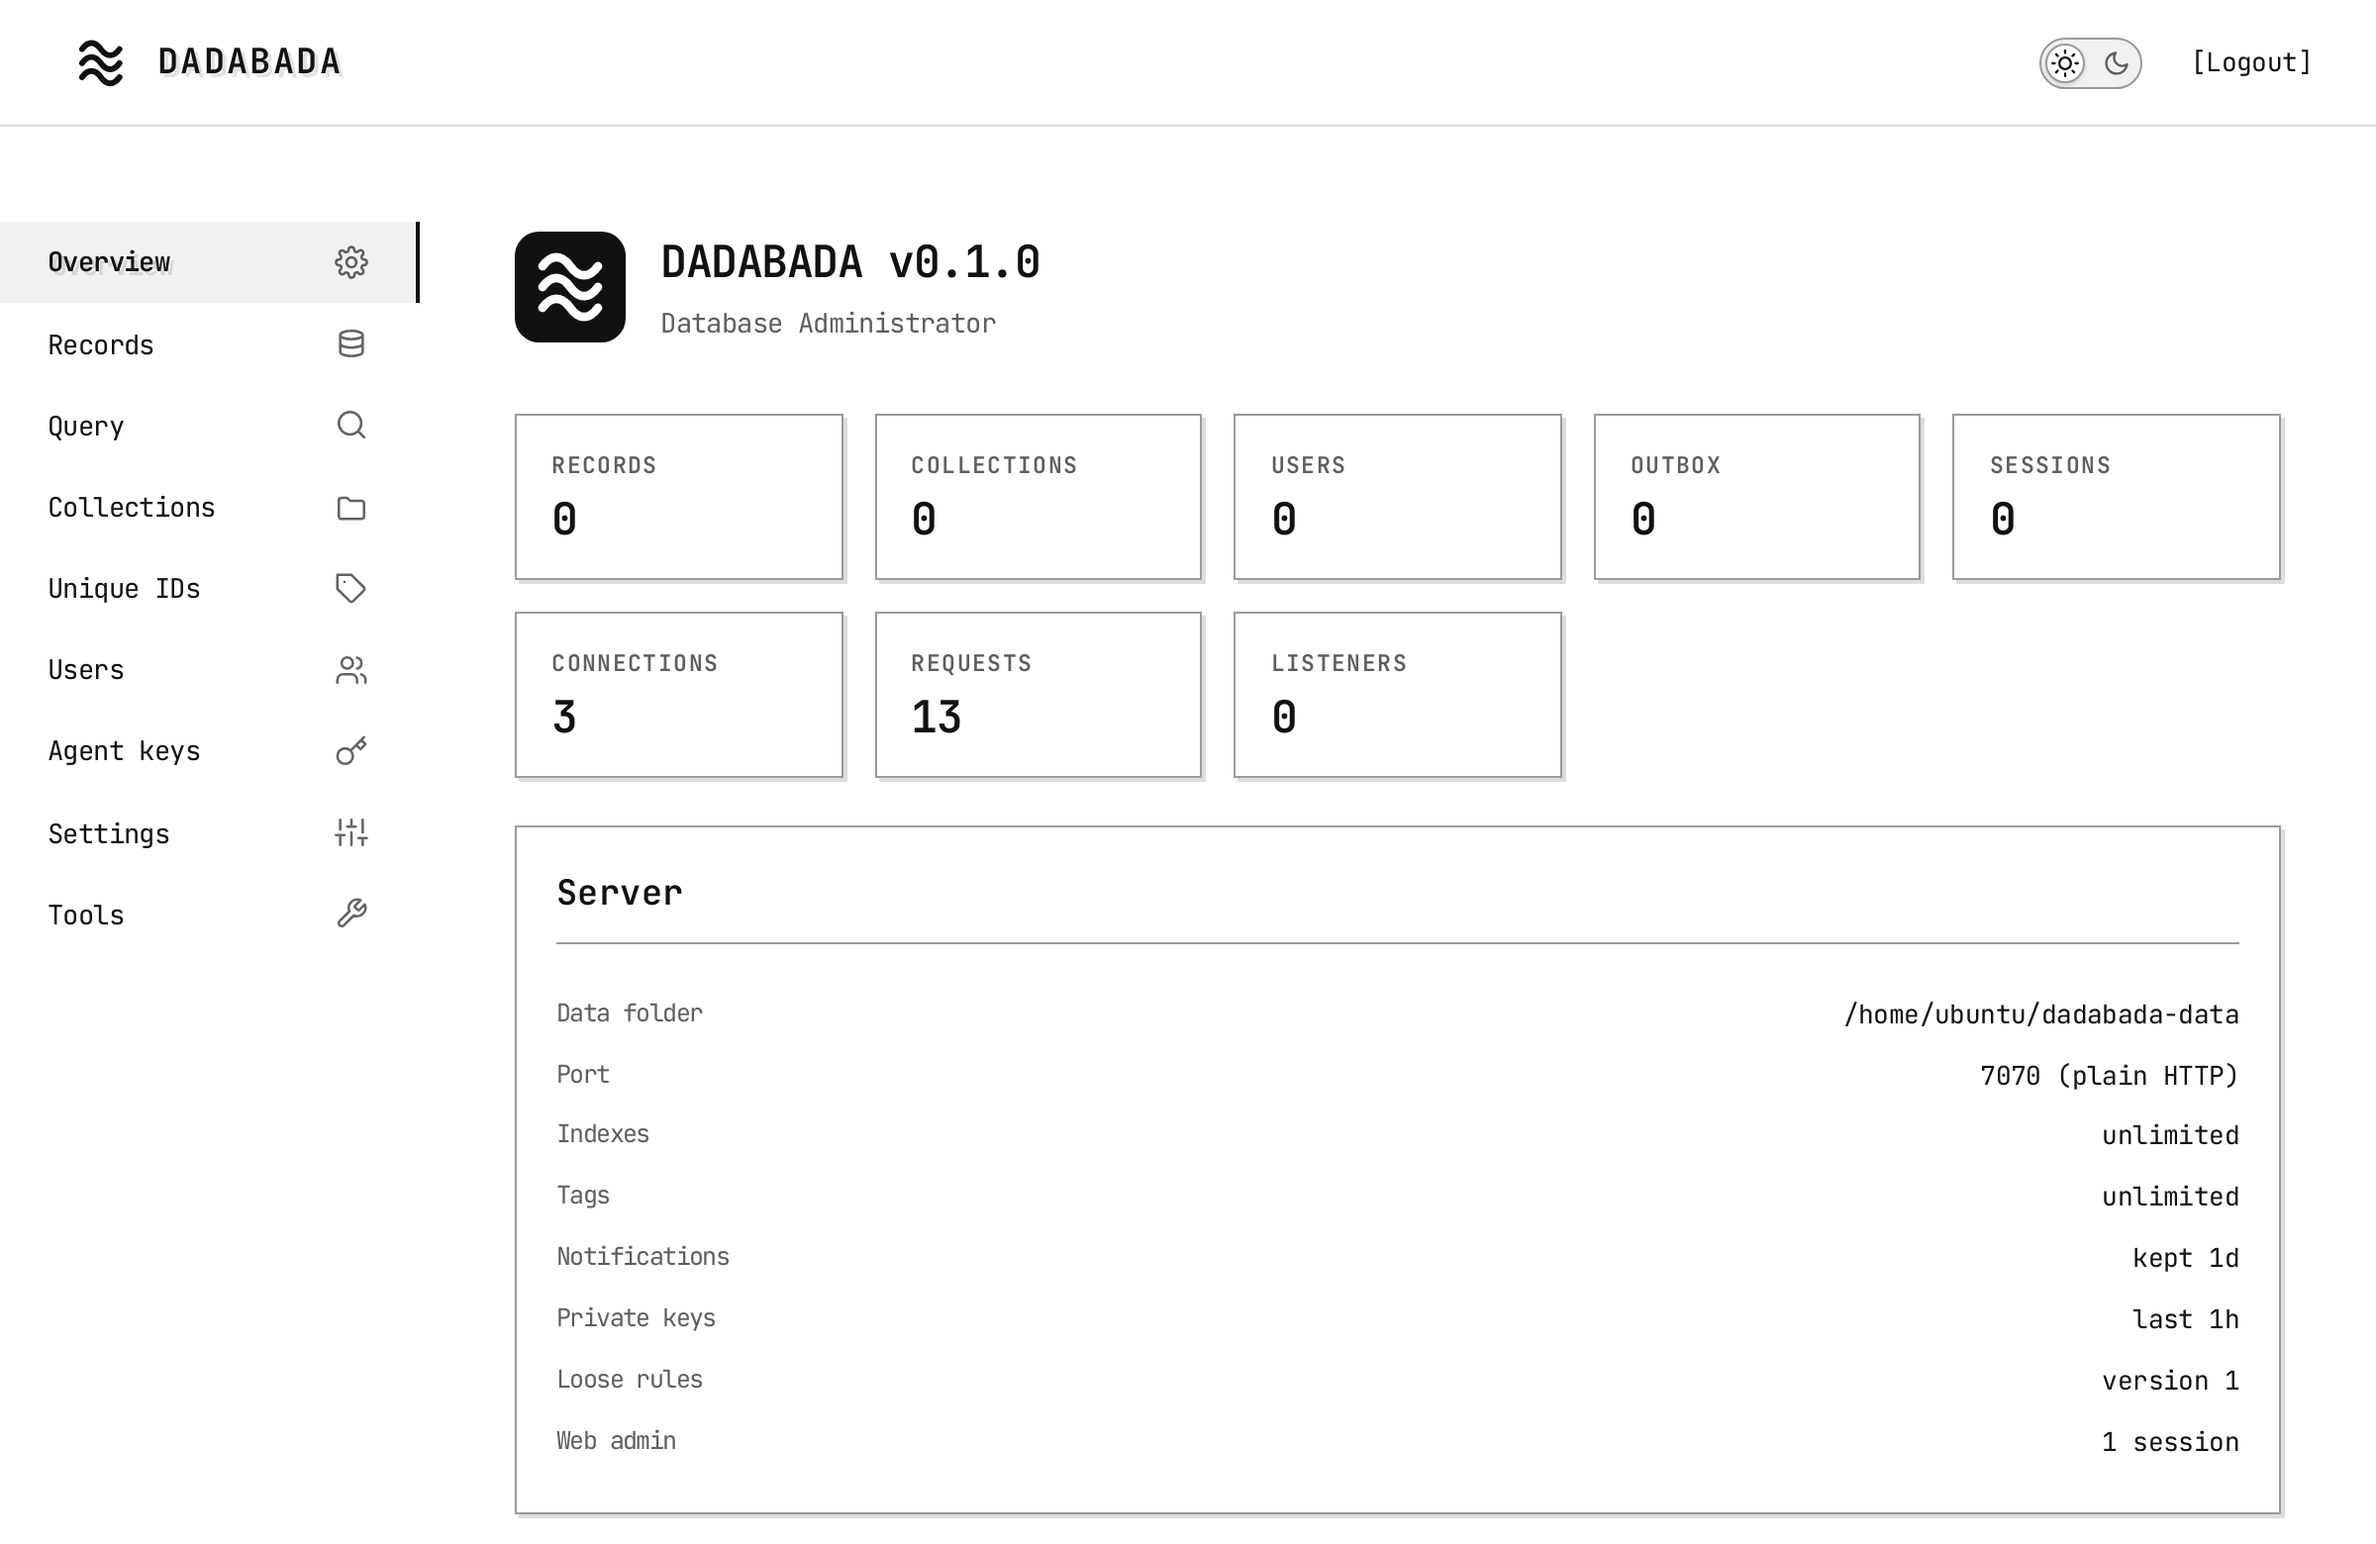
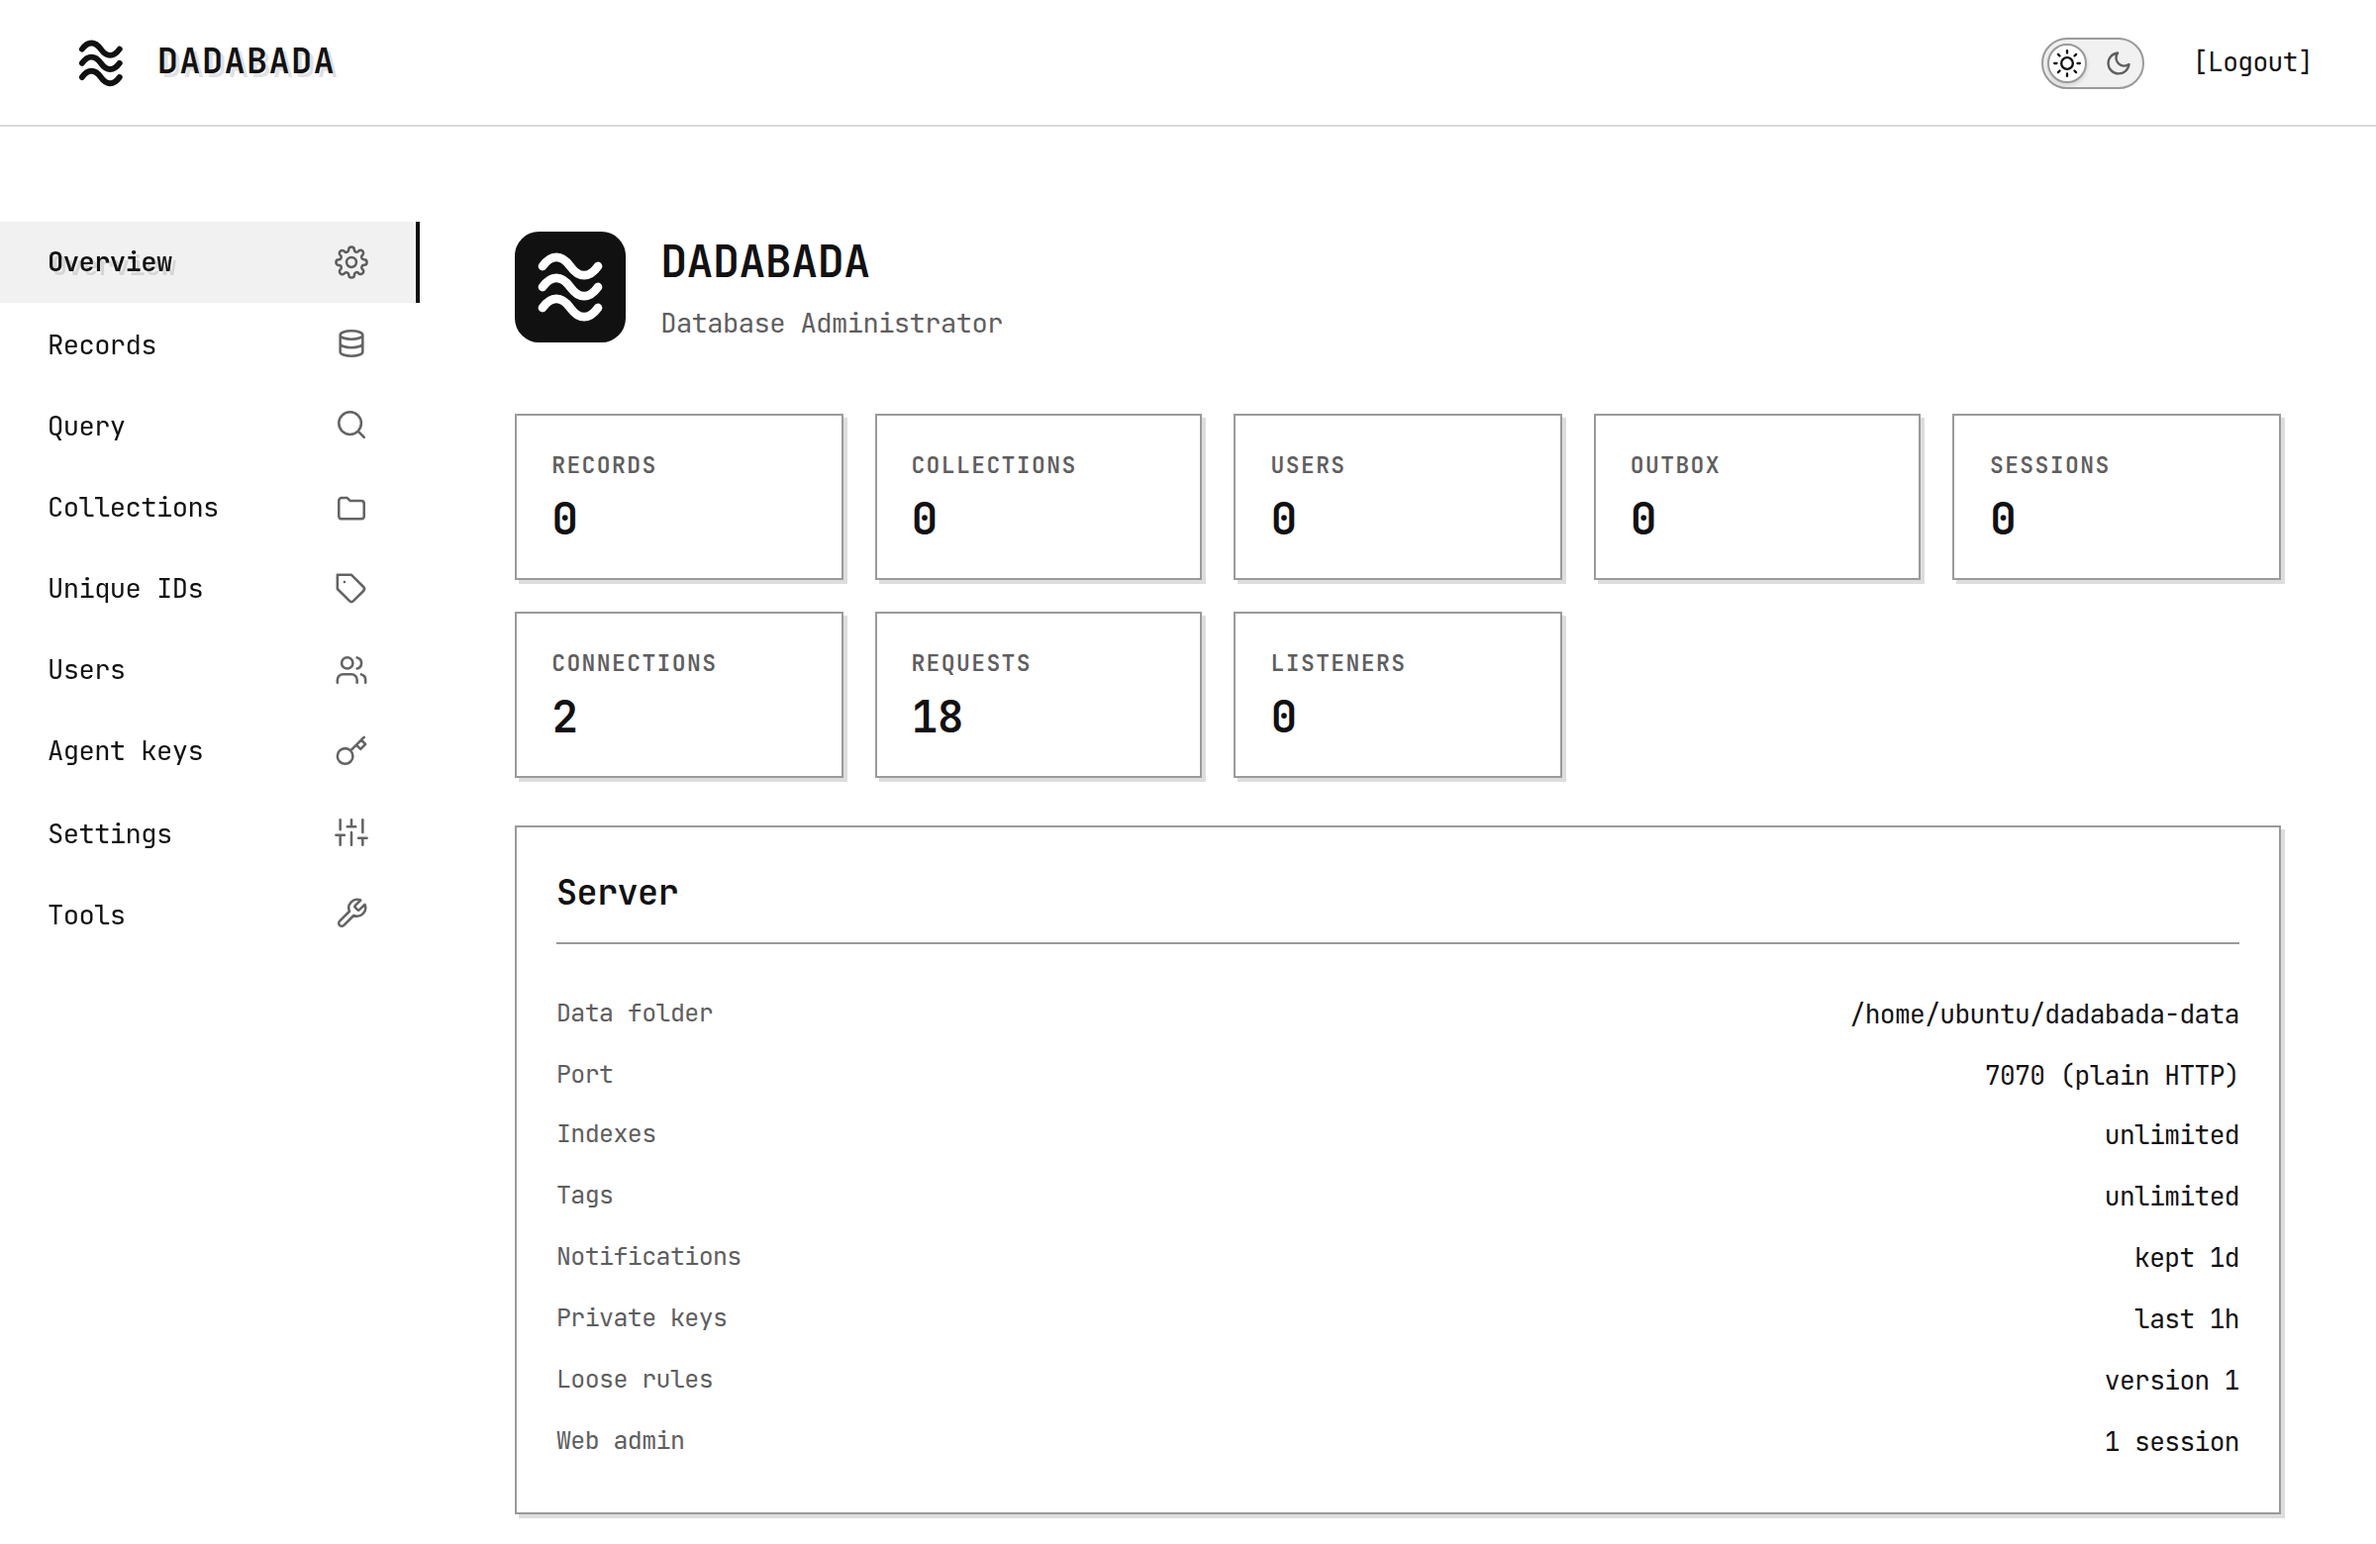
Update documentation and images for DADABADA version checks and Web Admin tools

diff --git a/admin/operations.md b/admin/operations.md
@@ -26,7 +26,7 @@ Two settings change what it does. Put them before `sh`:
 | `DADABADA_VERSION` | `curl -fsSL https://cdn.broadwayinc.com/get/dadabada/v1 \| DADABADA_VERSION=0.1.0 sh` | installs that version instead of the newest |
 | `DADABADA_INSTALL_DIR` | `curl -fsSL https://cdn.broadwayinc.com/get/dadabada/v1 \| DADABADA_INSTALL_DIR=/opt/dadabada/bin sh` | installs the program into that folder; the license files go to `/opt/dadabada/share/doc/dadabada` |
 
-Check the installed version with `dadabada version`, which prints `dadabada 0.1.2`.
+Check the installed version with `dadabada version`, which prints `dadabada 0.1.2`. In the [Web Admin](/admin/web-admin#tools), the **Tools** screen shows the version the running server was started with (which stays the old one until the server restarts after an update), and **[Check for updates]** there tells whether a newer release is out.
 
 ### Upgrading
 

diff --git a/admin/web-admin.md b/admin/web-admin.md
@@ -134,6 +134,7 @@ The server's [settings](/admin/settings). Cards marked **applies now** take effe
 
 Work on the whole database:
 
+- **Version**: the DADABADA version this server runs. **[Check for updates]** asks `https://cdn.broadwayinc.com/get/dadabada/latest` for the newest release and says whether this one is up to date, or which command updates it. The Web Admin contacts that address only when you click, and sends nothing but the request.
 - **Back up**, **Export** and **Import**, to and from folders and files on the server. See [Operations](/admin/operations#backup-and-restore).
 - Delete records by query, delete users in batch, or delete every record. Each asks you to type a word to confirm.
 - Rotate the secret behind private access keys.
